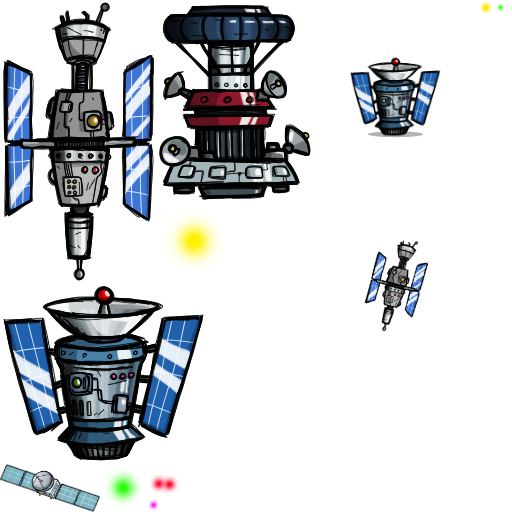
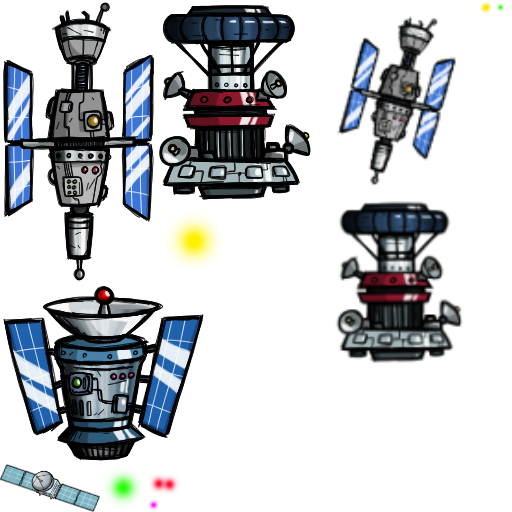
Space Station Selector Sidescreen

Changed region(s): [[0.6562, 0.0312, 0.9062, 0.7188]]

diff --git a/Rockets-TinyYetBig/SpaceStations/SpaceStationBuilderModuleSideScreen.cs b/Rockets-TinyYetBig/SpaceStations/SpaceStationBuilderModuleSideScreen.cs
@@ -6,6 +6,10 @@ using System.Threading.Tasks;
 using static STRINGS.CREATURES.STATS;
 using UnityEngine;
 using UtilLibs;
+using static KAnim;
+using UnityEngine.UI;
+using YamlDotNet.Core.Tokens;
+using static Rockets_TinyYetBig.ModAssets;
 
 namespace Rockets_TinyYetBig.SpaceStations
 {
@@ -15,9 +19,9 @@ namespace Rockets_TinyYetBig.SpaceStations
         private RectTransform buttonContainer;
 
         private GameObject stateButtonPrefab;
-        private GameObject debugVictoryButton;
+        private GameObject PlaceStationButton;
         private GameObject flipButton;
-        private readonly List<GameObject> buttons = new List<GameObject>();
+        private Dictionary<SpaceStationWithStats, MultiToggle> buttons = new Dictionary<SpaceStationWithStats, MultiToggle>();
 
         private Clustercraft targetCraft;
         private SpaceStationBuilder targetBuilder;
@@ -35,28 +39,24 @@ namespace Rockets_TinyYetBig.SpaceStations
         protected override void OnSpawn()
         {
             base.OnSpawn();
-            return;
-            //UIUtils.ListAllChildren(this.transform);
             // the monument screen used here has 2 extra buttons that are not needed, disabling them
             //flipButton.SetActive(false);
-            //debugVictoryButton.SetActive(false);
-            UIUtils.TryChangeText(debugVictoryButton.transform, "Label", "MakeOrBreakSpaceStation");
+            //PlaceStationButton.SetActive(false);
+            UIUtils.TryChangeText(PlaceStationButton.transform, "Label", "MakeOrBreakSpaceStation");
 
-            UIUtils.AddActionToButton(debugVictoryButton.transform, "", () => targetBuilder.OnSidescreenButtonPressed());
+            UIUtils.AddActionToButton(PlaceStationButton.transform, "", () => targetBuilder.OnSidescreenButtonPressed());
         }
 
         protected override void OnPrefabInit()
         {
 
             UIUtils.ListAllChildren(this.transform);
-            return;
-            UIUtils.ListAllChildren(this.transform);
             base.OnPrefabInit();
             titleKey = "STRINGS.UI_MOD.UISIDESCREENS.SPACESTATIONBUILDERMODULESIDESCREEN.TITLE";
             stateButtonPrefab = transform.Find("ButtonPrefab").gameObject;
             buttonContainer = transform.Find("Content/Scroll/Grid").GetComponent<RectTransform>();
-            debugVictoryButton = transform.Find("Butttons/Button").gameObject;
-            flipButton = transform.Find("Butttons/FlipButton").gameObject;
+            PlaceStationButton = transform.Find("Butttons/ApplyButton").gameObject;
+            flipButton = transform.Find("Butttons/ClearStyleButton").gameObject;
             GenerateStateButtons();
         }
 
@@ -71,8 +71,8 @@ namespace Rockets_TinyYetBig.SpaceStations
             }
             base.SetTarget(target);
 
-            targetCraft = target.GetComponent<Clustercraft>(); 
-            
+            targetCraft = target.GetComponent<Clustercraft>();
+
             foreach (Ref<RocketModuleCluster> clusterModule in targetCraft.GetComponent<CraftModuleInterface>().ClusterModules)
             {
                 if (clusterModule.Get().TryGetComponent<SpaceStationBuilder>(out var targetb))
@@ -89,51 +89,81 @@ namespace Rockets_TinyYetBig.SpaceStations
 
 
         // Creates clickable card buttons for all the lamp types + a randomizer button
-            
+
         private void GenerateStateButtons()
         {
             ClearButtons();
-            //var animFile = targetBuilder.GetComponent<KBatchedAnimController>().AnimFiles[0];
-
-            //// random button
-            //AddButton(animFile, "random_ui", STRINGS.BUILDINGS.PREFABS.DECORPACKA_MOODLAMP.VARIANT.RANDOM, () => target.SetRandom());
 
             foreach (var stationType in ModAssets.SpaceStationTypes)
             {
-                    AddButton(null, stationType.ID + "_ui", stationType.Name, 
+
+                AddButton(stationType,
                     () =>
-                        Debug.Log("Bt pressed")
-                        //target.SetVariant(lamp.Id)
+                    {
+                        targetBuilder.CurrentSpaceStationType = stationType;
+                        RefreshButtons();
+                        //Debug.Log("Bt pressed");
+
+                    }
                     );
             }
+            RefreshButtons();
         }
 
 
-        private void AddButton(KAnimFile animFile, string animName, LocString tooltip, System.Action onClick)
+        private void AddButton(SpaceStationWithStats type, System.Action onClick)
         {
             var gameObject = Util.KInstantiateUI(stateButtonPrefab, buttonContainer.gameObject, true);
 
-            if (gameObject.TryGetComponent(out KButton button))
+            //Debug.Log("ButtonPrefab_");
+            //UIUtils.ListAllChildrenWithComponents(stateButtonPrefab.transform);
+
+            if (gameObject.TryGetComponent(out MultiToggle button))
             {
+                //Assets.TryGetAnim((HashedString)animName, out var anim);
                 button.onClick += onClick;
-                //button.fgImage.sprite = Def.GetUISpriteFromMultiObjectAnim(animFile, animName);
+                button.ChangeState(type.ID == targetBuilder.CurrentSpaceStationType.ID ? 1 : 0);
+                Debug.Log(Def.GetUISpriteFromMultiObjectAnim(Assets.GetAnim(type.Kanim)));
+                Debug.Log("anim");
+                UIUtils.TryFindComponent<Image>(gameObject.transform, "FG").sprite = Def.GetUISpriteFromMultiObjectAnim(Assets.GetAnim(type.Kanim));
+                UIUtils.AddSimpleTooltipToObject(gameObject.transform, type.Name+"\n"+type.Description, true);
+                buttons.Add(type, button);
             }
 
-            UIUtils.AddSimpleTooltipToObject(gameObject.transform, tooltip, true);
-            buttons.Add(gameObject);
+        }
+
+        void RefreshButtons()
+        {
+            foreach (var button in buttons)
+            {
+                Debug.Log(targetBuilder.CurrentSpaceStationType + " <- current type, Button int -> " + button.Key);
+
+
+                var tech = button.Key.requiredTech;
+                if (tech == null || (tech != null && tech.IsComplete()))
+                {
+                    button.Value.gameObject.SetActive(true);
+                    button.Value.ChangeState(button.Key.ID == targetBuilder.CurrentSpaceStationType.ID ? 1 : 0);
+                }
+                else
+                {
+
+                    button.Value.gameObject.SetActive(false);
+                }
+            }
         }
 
         private void ClearButtons()
         {
             foreach (var button in buttons)
             {
-                Util.KDestroyGameObject(button);
+                Util.KDestroyGameObject(button.Value.gameObject);
             }
 
             buttons.Clear();
 
             //flipButton.SetActive(false);
-            //debugVictoryButton.SetActive(false);
+            //PlaceStationButton.SetActive(false);
         }
     }
 }

diff --git a/Rockets-TinyYetBig/SpaceStations/SpaceStation.cs b/Rockets-TinyYetBig/SpaceStations/SpaceStation.cs
@@ -5,6 +5,7 @@ using System.Linq;
 using System.Text;
 using System.Threading.Tasks;
 using UnityEngine;
+using static Rockets_TinyYetBig.ModAssets;
 
 namespace Rockets_TinyYetBig.SpaceStations
 {
@@ -17,6 +18,8 @@ namespace Rockets_TinyYetBig.SpaceStations
         [Serialize]
         public int SpaceStationInteriorId = -1;
 
+        [Serialize]
+        public SpaceStationWithStats CurrentSpaceStationType = ModAssets.SpaceStationTypes[0];
 
         [Serialize]
         public int IsOrbitalSpaceStationWorldId = -1;
@@ -27,14 +30,16 @@ namespace Rockets_TinyYetBig.SpaceStations
 
         public Vector2I InteriorSize = new Vector2I(30, 30);
         public string InteriorTemplate = "emptySpaceStationPrefab";
+
+        public string ClusterAnimName = "space_station_small_kanim";
         //public string IconAnimName = "station_3";
 
-        public override List<ClusterGridEntity.AnimConfig> AnimConfigs => new List<ClusterGridEntity.AnimConfig>()
+        public override List<AnimConfig> AnimConfigs => new List<AnimConfig>
         {
-            new ClusterGridEntity.AnimConfig()
+            new AnimConfig
             {
-                animFile = Assets.GetAnim((HashedString) "space_station_small_kanim"),
-                initialAnim =  "idle_loop"
+                animFile = Assets.GetAnim(CurrentSpaceStationType.Kanim),
+                initialAnim = "idle_loop"
             }
         };
 
@@ -43,16 +48,20 @@ namespace Rockets_TinyYetBig.SpaceStations
         public override EntityLayer Layer => EntityLayer.Craft;
         public override bool SpaceOutInSameHex() => true;
         public override ClusterRevealLevel IsVisibleInFOW => ClusterRevealLevel.Visible;
-        public override Sprite GetUISprite() => Assets.GetSprite("rocket_landing"); //Def.GetUISprite((object)this.gameObject).first;
+        //public override Sprite GetUISprite() => Assets.GetSprite("rocket_landing"); //Def.GetUISprite((object)this.gameObject).first;
+        public override Sprite GetUISprite()
+        {
+            return Def.GetUISpriteFromMultiObjectAnim(AnimConfigs[0].animFile);
+        }
 
+        //public Sprite GetUISpriteAt(int i) => Def.GetUISpriteFromMultiObjectAnim(AnimConfigs[i].animFile);
         protected override void OnSpawn()
         {
             base.OnSpawn();
-
             Debug.Log("MY WorldID:" + SpaceStationInteriorId);
             if (SpaceStationInteriorId < 0)
             {
-                var interiorWorld = SpaceStationManager.Instance.CreateSpaceStationInteriorWorld(gameObject, "interiors/"+InteriorTemplate, InteriorSize, BuildableInterior, null);
+                var interiorWorld = SpaceStationManager.Instance.CreateSpaceStationInteriorWorld(gameObject, "interiors/" + InteriorTemplate, CurrentSpaceStationType.InteriorSize, BuildableInterior, null);
                 SpaceStationInteriorId = interiorWorld.id;
                 Debug.Log("new WorldID:" + SpaceStationInteriorId);
                 Debug.Log("ADDED NEW SPACE STATION INTERIOR");

diff --git a/Rockets-TinyYetBig/ModAssets.cs b/Rockets-TinyYetBig/ModAssets.cs
@@ -1,4 +1,5 @@
 using Rockets_TinyYetBig.Behaviours;
+using Rockets_TinyYetBig.SpaceStations;
 using System;
 using System.Collections.Generic;
 using System.Linq;
@@ -33,7 +34,9 @@ namespace Rockets_TinyYetBig
                 "a tiny space station",
                 new Vector2I (30,30),
                 new string[] {"RefinedMetal" },
-                new float[] { 300f }),
+                new float[] { 300f },
+                "space_station_small_kanim"
+                ),
 
             new SpaceStationWithStats(
                 "RTB_SpaceStationMedium",
@@ -41,7 +44,9 @@ namespace Rockets_TinyYetBig
                 "a medium sized space station",
                 new Vector2I (45,45),
                 new string[] {"RefinedMetal" },
-                new float[] { 300f }),
+                new float[] { 300f },
+                "space_station_medium_kanim"
+                ),
 
             new SpaceStationWithStats(
                 "RTB_SpaceStationLarge",
@@ -49,7 +54,9 @@ namespace Rockets_TinyYetBig
                 "a large space station",
                 new Vector2I (60,60),
                 new string[] {"RefinedMetal" },
-                new float[] { 300f })
+                new float[] { 300f },
+                "space_station_large_kanim"
+                )
 
     };
 
@@ -218,7 +225,9 @@ namespace Rockets_TinyYetBig
             public Vector2I InteriorSize;
             public string[] materials;
             public float[] materialAmounts;
-            public SpaceStationWithStats(string _id, string _name, string _description, Vector2I _size, string[] _mats, float[] _matCosts)
+            public string Kanim;
+            public Tech requiredTech;
+            public SpaceStationWithStats(string _id, string _name, string _description, Vector2I _size, string[] _mats, float[] _matCosts, string _prefab, Tech _reqTech = null)
             {
                 ID = _id;
                 Name = _name;
@@ -226,6 +235,8 @@ namespace Rockets_TinyYetBig
                 InteriorSize = _size;
                 materials = _mats;
                 materialAmounts = _matCosts;
+                Kanim = _prefab;
+                requiredTech = _reqTech;
             }
             
         }

diff --git a/Rockets-TinyYetBig/SpaceStations/SpaceStationBuilder.cs b/Rockets-TinyYetBig/SpaceStations/SpaceStationBuilder.cs
@@ -1,17 +1,18 @@
-using System;
+using KSerialization;
+using System;
 using System.Collections.Generic;
 using System.Linq;
 using System.Text;
 using System.Threading.Tasks;
 using UnityEngine;
+using static Rockets_TinyYetBig.ModAssets;
 
 namespace Rockets_TinyYetBig.SpaceStations
 {
     class SpaceStationBuilder : KMonoBehaviour//, ISidescreenButtonControl
     {
-        public string SidescreenButtonText => "Make Station";
-
-        public string SidescreenButtonTooltip => "Make Station Tooltip";
+        [Serialize]
+        public SpaceStationWithStats CurrentSpaceStationType = ModAssets.SpaceStationTypes[0];
 
         private void SpawnStation(AxialI location, string prefab)
         {
@@ -20,6 +21,7 @@ namespace Rockets_TinyYetBig.SpaceStations
             sat.SetActive(true);
             var spaceStation = sat.GetComponent<SpaceStation>();
             spaceStation.Location = location;
+            spaceStation.CurrentSpaceStationType = CurrentSpaceStationType;
         }
 
         public int ButtonSideScreenSortOrder()
@@ -48,14 +50,5 @@ namespace Rockets_TinyYetBig.SpaceStations
 
         }
 
-        public bool SidescreenButtonInteractable()
-        {
-            return true;
-        }
-
-        public bool SidescreenEnabled()
-        {
-            return true;
-        }
     }
 }

diff --git a/Rockets-TinyYetBig/Buildings/Generators/CoalGeneratorModuleConfig.cs b/Rockets-TinyYetBig/Buildings/Generators/CoalGeneratorModuleConfig.cs
@@ -59,7 +59,7 @@ namespace Rockets_TinyYetBig
 
             ManualDeliveryKG manualDeliveryKg = go.AddOrGet<ManualDeliveryKG>();
             manualDeliveryKg.SetStorage(storage);
-            manualDeliveryKg.RequestedItemTag = new Tag("Coal");
+            manualDeliveryKg.RequestedItemTag = ElementLoader.FindElementByHash(SimHashes.Carbon).tag;
             manualDeliveryKg.capacity = storage.capacityKg;
             manualDeliveryKg.refillMass = storage.capacityKg;
             manualDeliveryKg.choreTypeIDHash = Db.Get().ChoreTypes.PowerFetch.IdHash;

diff --git a/Rockets-TinyYetBig/SpaceStations/SmallOrbitalSpaceStationConfig.cs b/Rockets-TinyYetBig/SpaceStations/SmallOrbitalSpaceStationConfig.cs
@@ -29,7 +29,8 @@ namespace Rockets_TinyYetBig.SpaceStations
             destinationSelector.shouldPointTowardsPath = false;
             destinationSelector.requireAsteroidDestination = false;
 
-            var spst=entity.AddOrGet<SpaceStation>();
+            var spst = entity.AddOrGet<SpaceStation>();
+
             entity.AddOrGet<CharacterOverlay>().shouldShowName = true;
             entity.AddOrGetDef<AlertStateManager.Def>();
             entity.AddOrGet<Notifier>();
